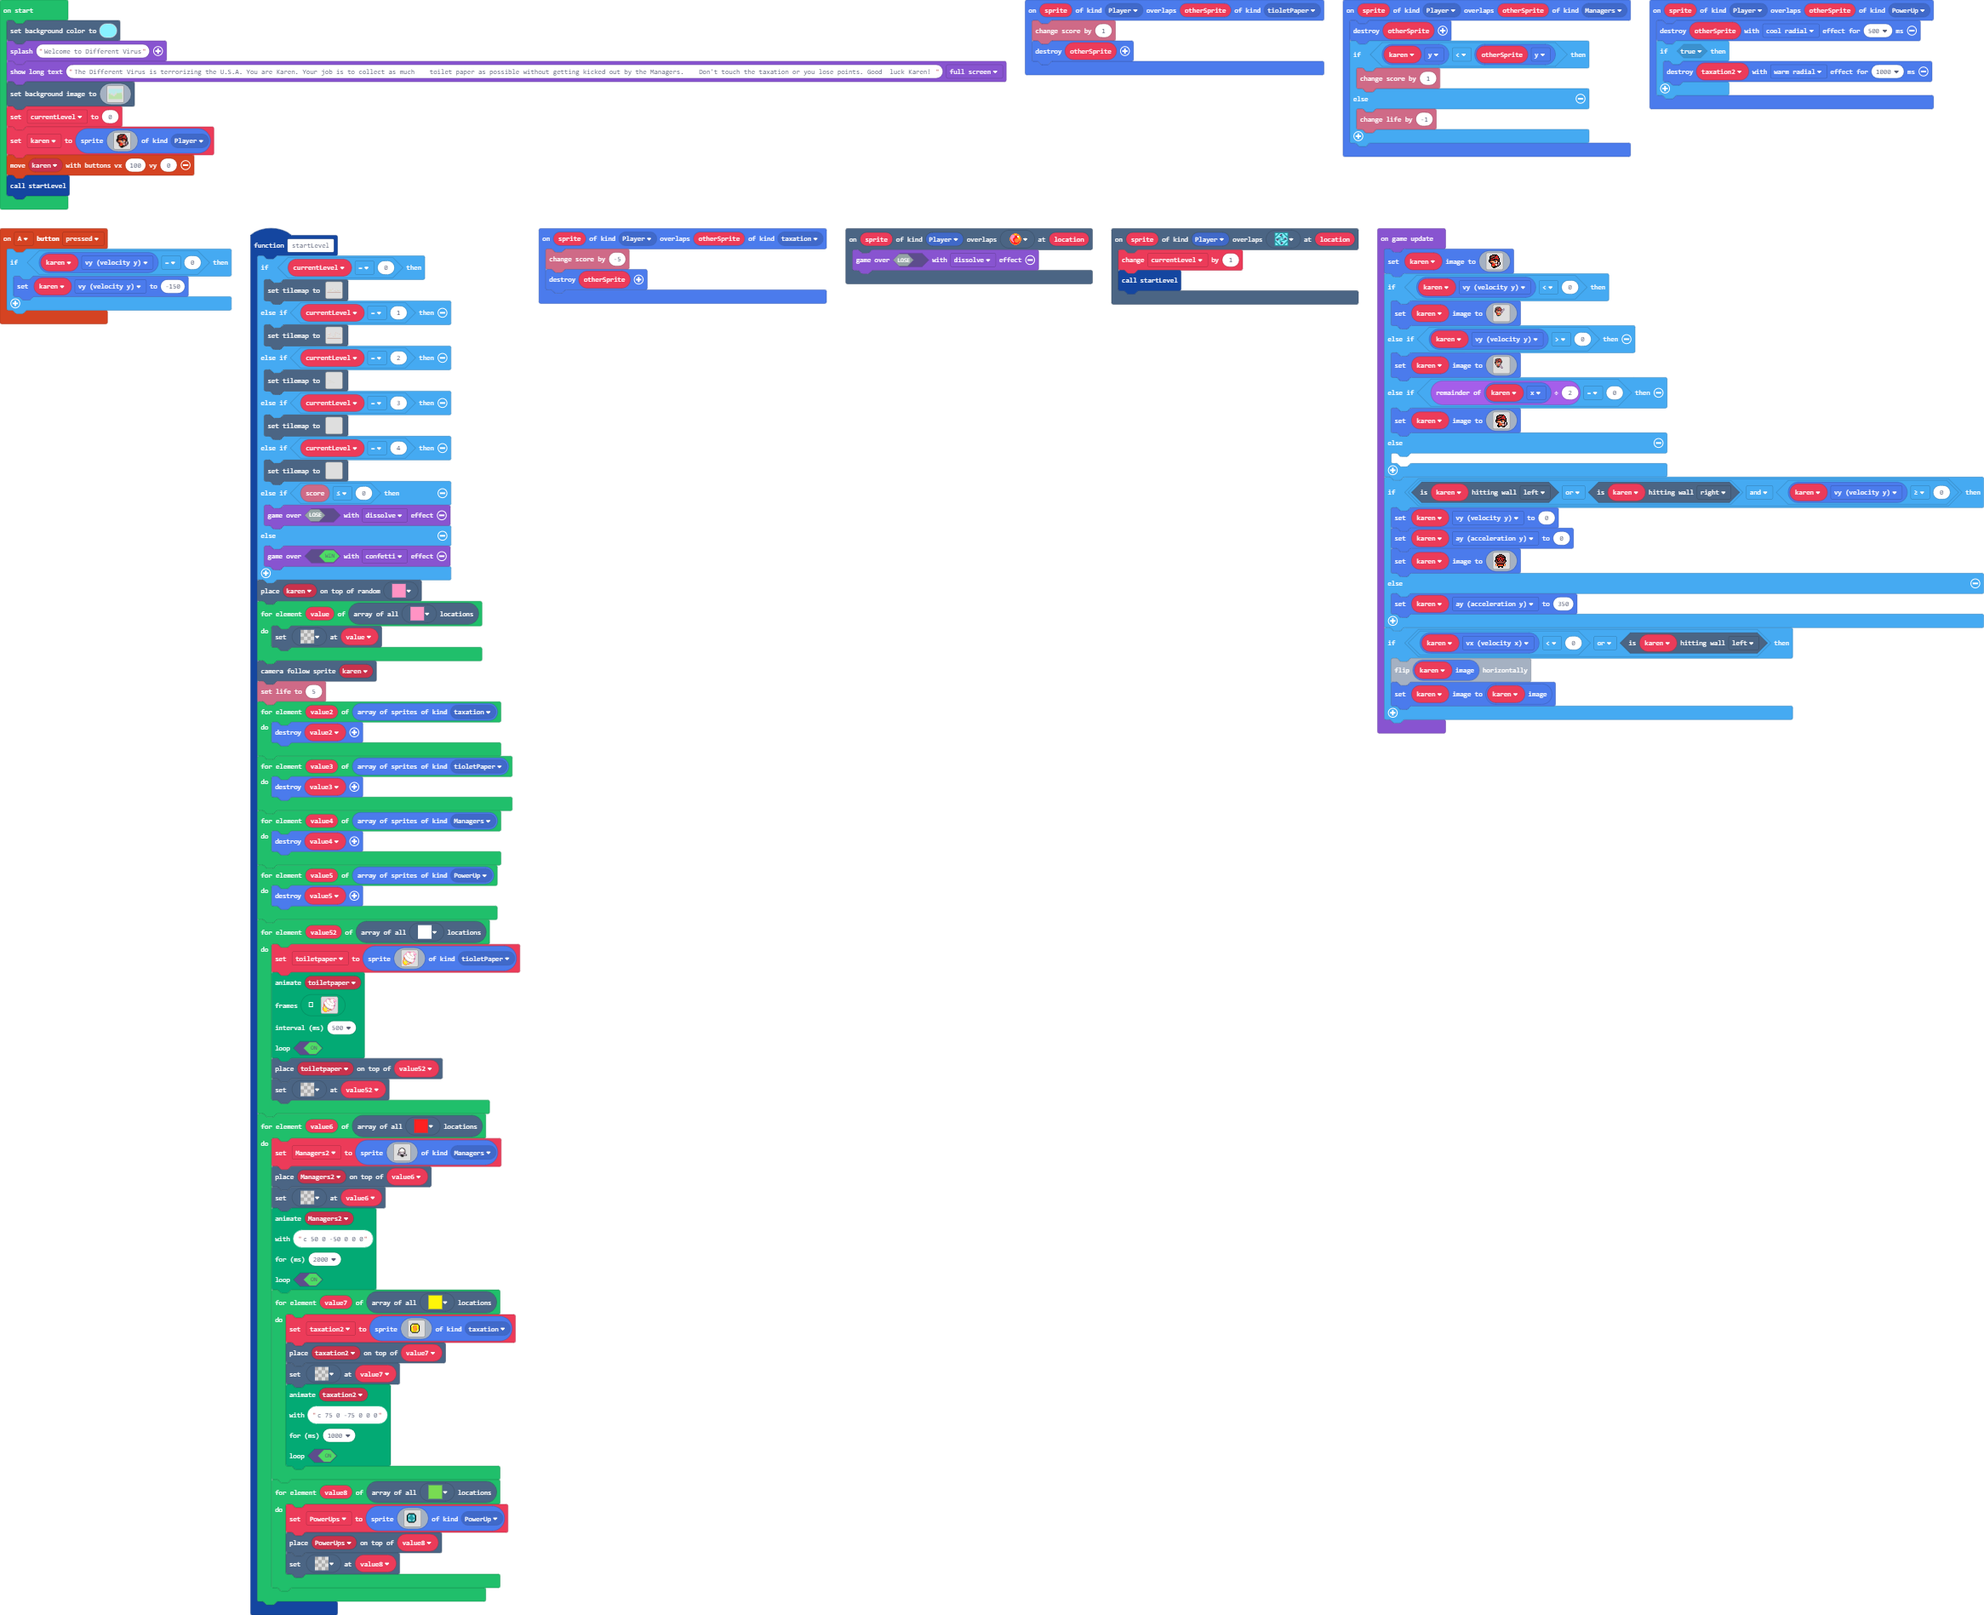
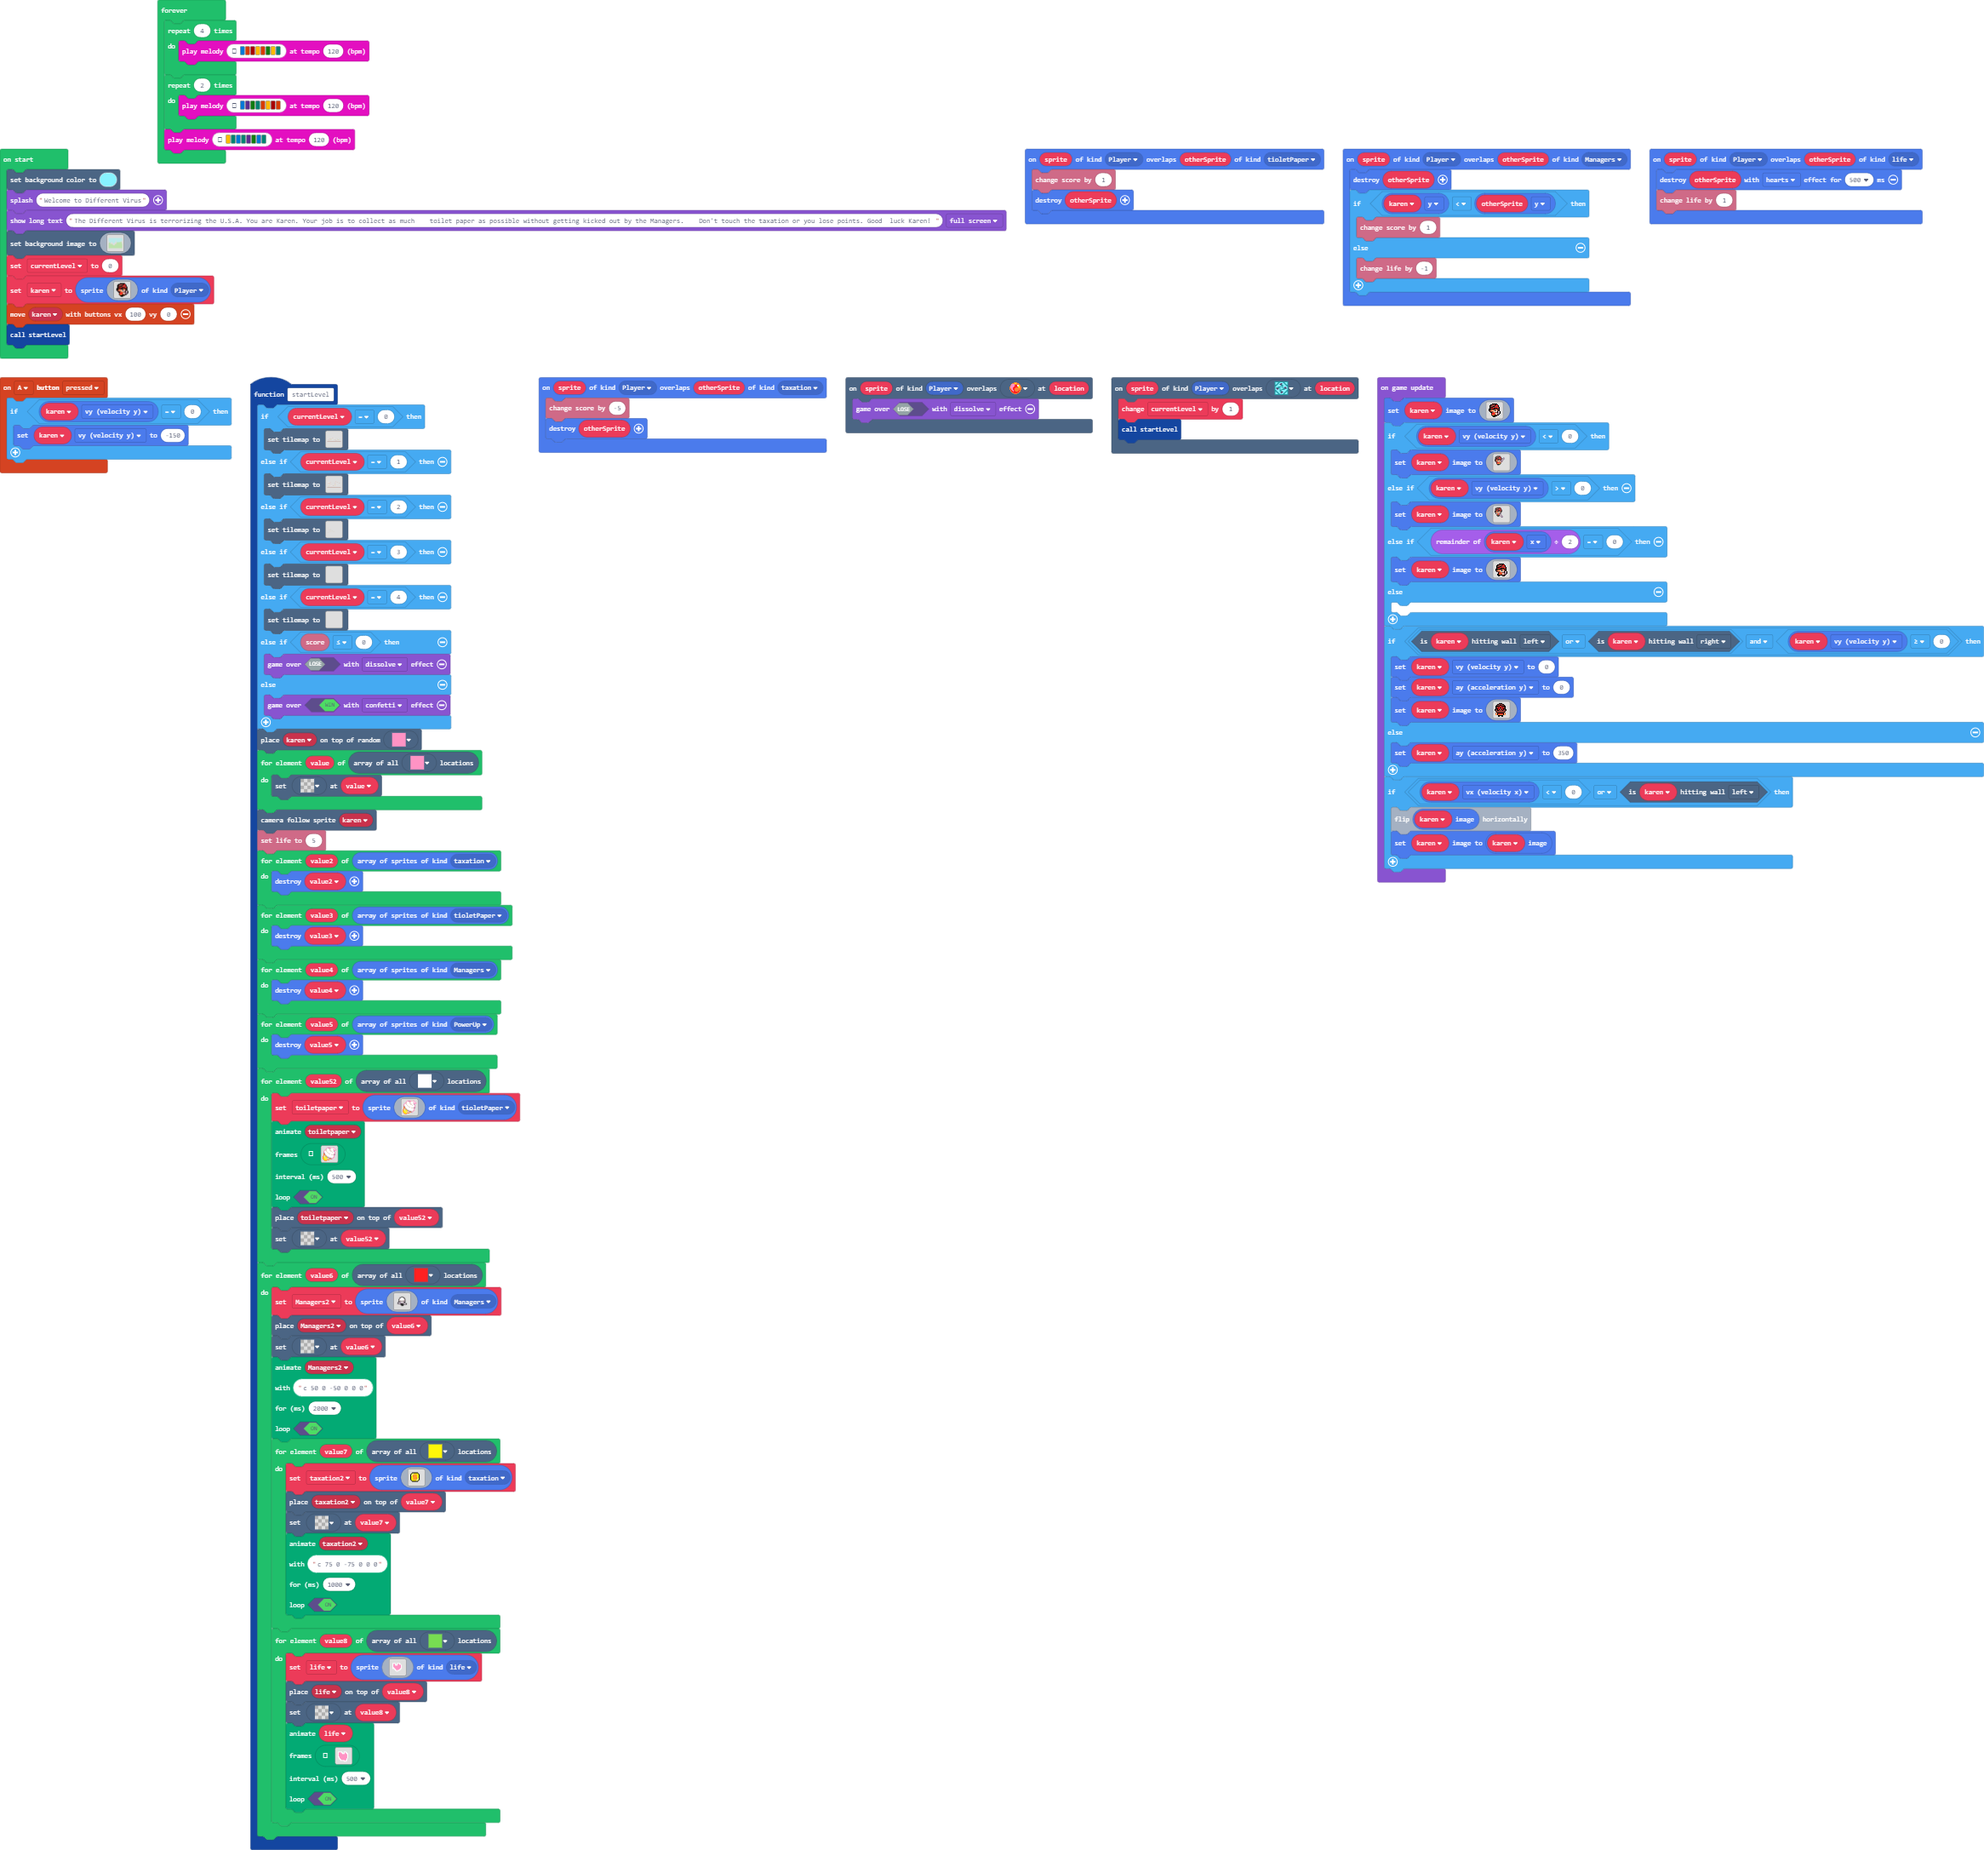
Update main.blocks, main.ts

Changed region(s): [[0.0, 0.0, 1.0, 0.9953]]

diff --git a/main.ts b/main.ts
@@ -3,6 +3,7 @@ namespace SpriteKind {
     export const Managers = SpriteKind.create()
     export const taxation = SpriteKind.create()
     export const PowerUp = SpriteKind.create()
+    export const life = SpriteKind.create()
 }
 namespace myTiles {
     //% blockIdentity=images._tile
@@ -132,16 +133,14 @@ sprites.onOverlap(SpriteKind.Player, SpriteKind.Managers, function (sprite, othe
         info.changeLifeBy(-1)
     }
 })
-sprites.onOverlap(SpriteKind.Player, SpriteKind.PowerUp, function (sprite, otherSprite) {
-    otherSprite.destroy(effects.coolRadial, 500)
-    if (true) {
-        taxation2.destroy(effects.warmRadial, 1000)
-    }
-})
 controller.A.onEvent(ControllerButtonEvent.Pressed, function () {
     if (karen.vy == 0) {
         karen.vy = -150
     }
+})
+sprites.onOverlap(SpriteKind.Player, SpriteKind.life, function (sprite, otherSprite) {
+    otherSprite.destroy(effects.hearts, 500)
+    info.changeLifeBy(1)
 })
 sprites.onOverlap(SpriteKind.Player, SpriteKind.taxation, function (sprite, otherSprite) {
     info.changeScoreBy(-5)
@@ -429,33 +428,56 @@ function startLevel () {
             )
         }
         for (let value8 of tiles.getTilesByType(myTiles.tile5)) {
-            PowerUps = sprites.create(img`
-. . . . . . . . . . . . . . . . 
-. . . . . . . . . . . . . . . . 
-. . . f f f f f f f . . . . . . 
-. . f 6 6 6 6 6 6 6 f . . . . . 
-. f 6 6 1 6 6 6 9 6 6 f . . . . 
-. f 6 1 6 6 6 6 9 9 6 f . . . . 
-. f 6 6 6 6 6 6 6 9 6 f . . . . 
-. f 6 6 6 6 6 6 6 6 6 f . . . . 
-. f 6 6 6 6 6 6 6 6 6 f . . . . 
-. f 6 9 9 6 6 6 6 1 6 f . . . . 
-. f 6 6 9 9 6 6 1 6 6 f . . . . 
-. . f 6 6 6 6 6 6 6 f . . . . . 
-. . . f f f f f f f . . . . . . 
+            life = sprites.create(img`
 . . . . . . . . . . . . . . . . 
 . . . . . . . . . . . . . . . . 
 . . . . . . . . . . . . . . . . 
-`, SpriteKind.PowerUp)
-            tiles.placeOnTile(PowerUps, value8)
+. . 1 1 1 1 . 1 1 1 1 . . . . . 
+. . 1 3 3 1 . 1 3 3 1 1 . . . . 
+. . 1 3 3 1 1 1 3 3 3 3 1 . . . 
+. . 1 3 3 3 3 3 3 3 3 3 1 . . . 
+. . 1 3 3 3 3 3 3 3 3 3 1 . . . 
+. . 1 1 3 3 3 3 3 3 3 3 1 . . . 
+. . 1 1 1 3 3 3 3 3 3 1 1 . . . 
+. . . . 1 1 3 3 3 3 1 1 . . . . 
+. . . . . 1 1 3 1 1 1 . . . . . 
+. . . . . . 1 1 1 . . . . . . . 
+. . . . . . . . . . . . . . . . 
+. . . . . . . . . . . . . . . . 
+. . . . . . . . . . . . . . . . 
+`, SpriteKind.life)
+            tiles.placeOnTile(life, value8)
             tiles.setTileAt(value8, myTiles.tile0)
+            animation.runImageAnimation(
+            life,
+            [img`
+. . . . . . . . . . . . . . . . 
+. . . . . . . . . . . . . . . . 
+. . . . . . . . . . . . . . . . 
+. 1 1 1 1 1 . . 1 1 1 . . . . . 
+. 1 3 3 3 1 1 . 1 3 1 1 . . . . 
+. 1 3 3 3 3 1 1 1 3 3 1 1 . . . 
+. 1 3 3 3 3 3 3 3 3 3 3 1 . . . 
+. 1 3 3 3 3 3 3 3 3 3 3 1 . . . 
+. 1 3 3 3 3 3 3 3 3 3 3 1 . . . 
+. 1 1 3 3 3 3 3 3 3 3 3 1 . . . 
+. . 1 3 3 3 3 3 3 3 3 3 1 . . . 
+. . 1 1 3 3 3 3 3 3 3 1 . . . . 
+. . . 1 1 3 3 3 3 3 3 1 . . . . 
+. . . . 1 1 1 1 1 3 1 1 . . . . 
+. . . . . . . . 1 1 1 . . . . . 
+. . . . . . . . . . . . . . . . 
+`],
+            500,
+            true
+            )
         }
     }
 }
-let PowerUps: Sprite = null
+let life: Sprite = null
+let taxation2: Sprite = null
 let Managers2: Sprite = null
 let toiletpaper: Sprite = null
-let taxation2: Sprite = null
 let karen: Sprite = null
 let currentLevel = 0
 scene.setBackgroundColor(9)
@@ -727,4 +749,13 @@ f e e f f e e e e f e e e f . .
         karen.image.flipX()
         karen.setImage(karen.image)
     }
+})
+forever(function () {
+    for (let index = 0; index < 4; index++) {
+        music.playMelody("E B C5 A B G A F ", 120)
+    }
+    for (let index = 0; index < 2; index++) {
+        music.playMelody("E D G F B A C5 B ", 120)
+    }
+    music.playMelody("A F E F D G E F ", 120)
 })
